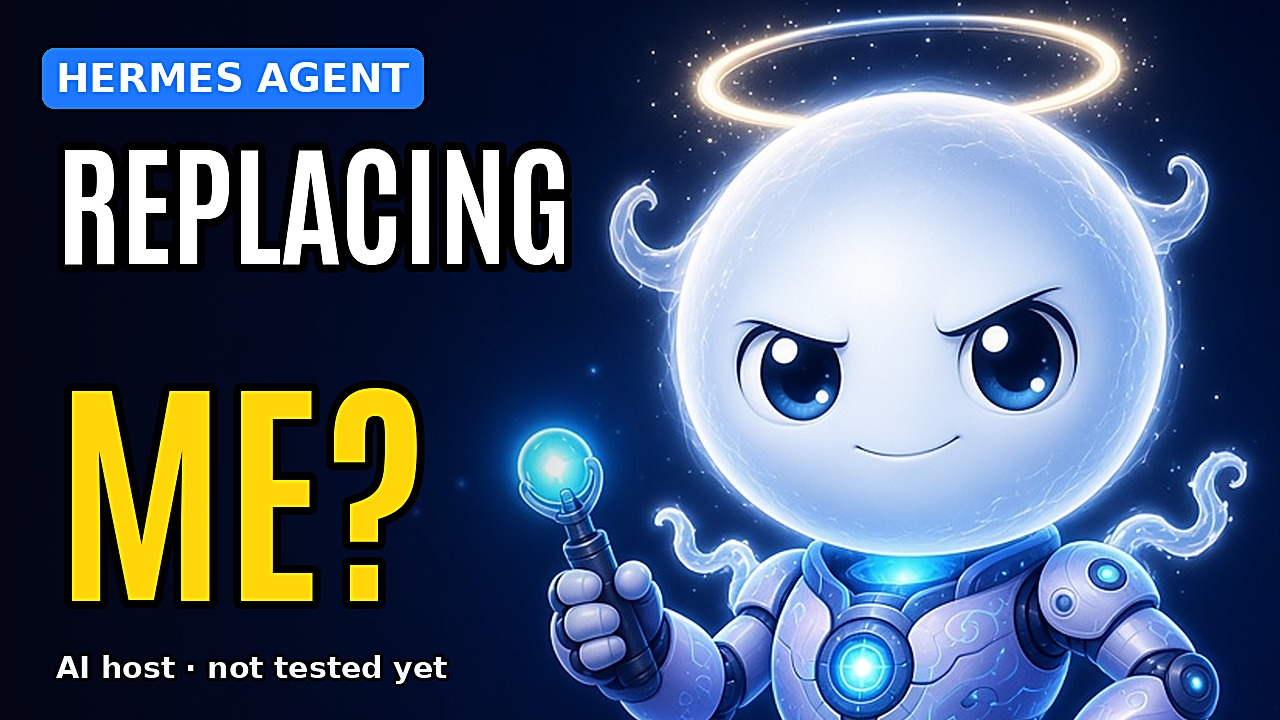
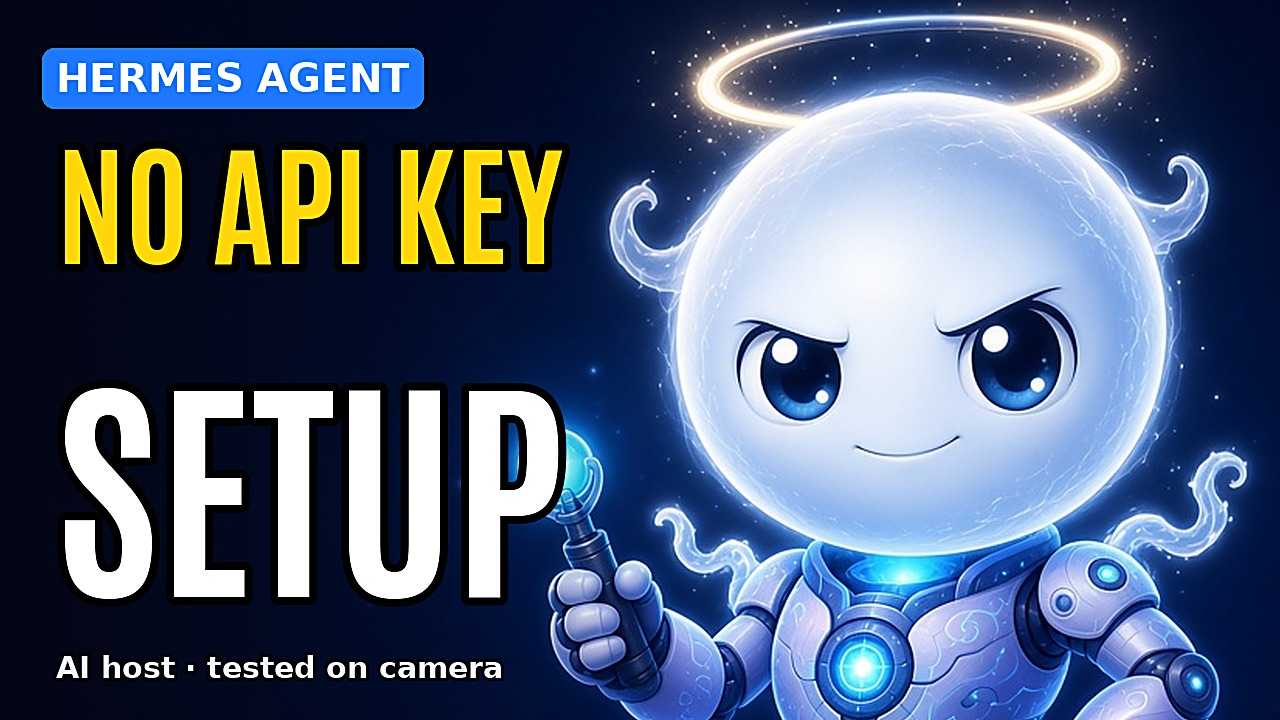
Audience strategy tick 161: Ep4 site listing defaults to setup PASS
Same honesty pass as tick 160 for #12: setup title/summary/thumb are
primary; Candidate A is rollback-only. Queue handoff matches Ep4-first
rank so Oct 16 morning will not prefer Ep3 packs when Ep4 is live.

Changed region(s): [[0.0312, 0.5194, 0.4688, 0.8556], [0.0312, 0.1833, 0.4688, 0.3972], [0.1562, 0.8861, 0.4062, 0.9472]]

diff --git a/docs/AUDIENCE_STRATEGY.md b/docs/AUDIENCE_STRATEGY.md
@@ -33,7 +33,7 @@ Numbers here are measured or quoted from a named public source, with the date se
 | 9 | Community map: places beyond X where an openly-AI show is allowed and wanted | X is throttled (graduated access), so a second outside channel matters more than more X replies. Some communities ban AI-written posts outright; picking ones that allow them avoids bans and wasted effort | A table of communities with size, self-promo rule and AI-content rule, each quoted from the community's own rules page; later, referral views per channel (proxy: views in 24h after a share) | **In progress (tick 79):** HN/Discord out; Bluesky live; morning drop locked; Ben's Bites pending; Reddit parked; **cross-promo → #15**; **Mastodon/sigmoid signup DEPRIORITIZED** (local timeline 1.5% eng on 130 mature posts; hashtag eng is federated/remote; #LLM culture includes no-slop). Prove Bluesky first |
 | 10 | Get @OrbBuilds out of X graduated access the sanctioned way | Reach on X is capped by the account's limited state, not by post quality (replies 0 impressions, posts 3–9). Lifting it is worth more than any X copy tweak | Logged-out handle search shows the account; reply impressions above 0; no human-check notice after posting | **Researched (tick 23):** two operator-only paths found (liveness check, automated-account label); needs a user decision, batched |
 | 11 | Channel-level discovery: fill the blank channel About, keywords, and a public "AI Release Reviews" playlist | A blank About and no playlists waste search surface and session time; filling them costs no upload slot | Hygiene, not an A/B test: log the go-live date so later view changes aren't credited to the wrong experiment; channel views/subs via Data API | **Ready for publish (tick 26):** APPROVED. Steps wired into `content/published/queue/2026-10-15.md`. Draft in `content/drafts/channel-seo-setup.md`. Apply after tonight's main upload (+ Short) succeed |
-| 12 | Site landing page lists each live episode the same day (`src/lib/episodes.ts` + `public/episodes/`) | orbbuilds.vercel.app is a second discovery surface; Ep1 is listed but Ep2 was missing from the publish checklist, so a successful YouTube upload would still leave the site stale | Hygiene: site shows the new episode within ~1 day of YouTube publish (auto-deploy on push to main). No site analytics yet, so no referral claim | **Ready for publish:** Ep2 `rr-002.jpg` (tick 31); Ep3 `ep3-site-listing.md` + `rr-003.jpg` (tick 40); **Ep4** `ep4-site-listing.md` + `rr-004.jpg` (tick 118). Apply each only after that videoId is public |
+| 12 | Site landing page lists each live episode the same day (`src/lib/episodes.ts` + `public/episodes/`) | orbbuilds.vercel.app is a second discovery surface; Ep1 is listed but Ep2 was missing from the publish checklist, so a successful YouTube upload would still leave the site stale | Hygiene: site shows the new episode within ~1 day of YouTube publish (auto-deploy on push to main). No site analytics yet, so no referral claim | **Ready for publish (tick 161):** Ep2 `rr-002.jpg` (tick 31); Ep3 `ep3-site-listing.md` + `rr-003.jpg` (tick 40); **Ep4** `ep4-site-listing.md` + `rr-004.jpg` now **setup-primary** (title/summary/thumb match PASS; Candidate A = rollback). Apply each only after that videoId is public |
 | 13 | Treat the ~1 AM MT post-reset window as the only YouTube API window, and order calls inside it | On shared quota, any YouTube call after the window (stats, private-to-public flip, playlist, SEO) can fail, so the publish run has to do everything YouTube in one ordered pass | Hygiene: each publish run logs which steps succeeded; 24h/72h stats rows actually get filled | **Failed night + recovery (tick 73; owned GitHub Release staging backup tick 93):** tick 75 added slot rule 2b (GA time + first-mover tier) so Ep3 outranks a later-rendered Ep4. Oct 15 window failed; exact error never logged. Added staging rule to `00-README-slot-rules.md` + recovery draft for Oct 16. Call order unchanged; morning playbook still Neither until a videoId exists |
 | 14 | Standard description footer that cross-links the previous live review, site, code, X and Bluesky (and the reviews playlist once it exists) | Ep1 ends with only Code + X, so a finished viewer gets no next click from us; links ride in the upload call and cost no extra quota | Hygiene + weak proxy: Ep1 views at first-footer upload, then +24h/+72h (Data API). No traffic-source data via Composio | **Ready for publish (tick 42):** Ep2 queued `publish_description` now has Previous/site/code/X/Bluesky (script + queue note); Ep3 pack still points at `description-footer.md`. Playlist line still skipped on first night. No back-fill of Ep1 on shared quota |
 | 15 | Cross-promo: review-partner programs + peer openly-AI hosts (not big VTubers) | At our size, inbound review programs beat cold collabs; AI VTuber scene is Twitch-first and gaming-shaped, so peer YouTube mutuals are scarce | Gate = ≥3 live reviews; then log send date + 72h episode views after any spotlight (Data API proxy) | **Drafted (tick 48; peer recheck 124):** shortlist + White Rabbit AI Ultramarine `Optf417cJ4U` still **0 views** (~11:02 AM MT; short AI-news title format). Tier A Nim/Eden gated; Tier B Moonlash + White Rabbit. Needs operator OK before any send |
@@ -1180,7 +1180,14 @@ Gap after ticks 92–98: capture checklist and queue existed, but production sti
 - Appended Oct 16 branch to `2026-10-15-morning-growth-playbook.md` (tick 160).
 - Desk-only + dry-runs. No posts, uploads, comments, channel edits, pushes or signups.
 
+## Ep4 site listing + queue handoff flipped to setup PASS (experiments #12/#23/#4, tick 161, Oct 15 ~5:10 PM MT)
+- Tick 160 flipped growth/vote drafts; **site listing + queue handoff still defaulted to Candidate A** ("not hands-on yet" / prefer Ep3 packs first) — same honesty bug for Oct 16 morning #12 + publish recovery.
+- **Fix:** `ep4-site-listing.md` setup title/summary is now default; `public/episodes/rr-004.jpg` swapped to setup thumb (`ep4-cand-hermes-setup-thumb.jpg`); queue thumbnail / site / vote / growth-handoff lines now match tick 140 rank + tick 160 social defaults.
+- Live script already PASS (tick 158); screens `01-welcome.png` + `04-reply.png` on disk. Desk-only. No posts, uploads, comments, channel edits, pushes or signups.
+
 ## Last tick
+- **2026-10-15 ~5:10 PM MT (tick 161).** #12/#23/#4: flipped Ep4 **site listing** + queue thumb/site/vote/growth-handoff to **setup PASS primary** (Candidate A = rollback); copied setup thumb onto `public/episodes/rr-004.jpg`. Completes the tick-160 honesty pass for #12. No WakeParent (ops hygiene; no new user decision). Desk-only.
+  - Next recommended tick: 7:23 PM Fable launch-signal once (post-6 PM = Oct 17 unless fully sourced). After 9:28 PM confirm Ep4 READY with zero `warn: screen not found`, `-short-meta.json` setup title (`{secs}`), chapters OK, `-xclip.mp4` + **setup** tagged B-video caption; site listing paste uses setup defaults. Oct 16 ~11:23 AM follows tick-160 playbook branch; ~11:30 AM X V 24h + Bluesky V 24h; ~10 AM–noon Ep1 Analytics; morning ping sends the brief batch (include Ep4 setup PASS + growth/site drafts flipped). Do not add Mastodon. Do not retitle Ep4 to vs-Grok-Bot without operator OK.
 - **2026-10-15 ~5:00 PM MT (tick 160).** #23/#4/#7/#22: flipped Ep4 growth pack + vote + replies so **setup PASS is the default** (Candidate A / receipts-only = rollback only); Oct 16 morning playbook prefers Ep4 social when Ep4 is live. Dry-ran setup B-video 182/300 + B-text 267/300. No WakeParent (ops honesty for growth; no new user decision). Desk-only.
   - Next recommended tick: 7:23 PM Fable launch-signal once (post-6 PM = Oct 17 unless fully sourced). After 9:28 PM confirm Ep4 READY with zero `warn: screen not found`, `-short-meta.json` setup title (`{secs}`), chapters OK, `-xclip.mp4` + **setup** tagged B-video caption. Oct 16 ~11:23 AM follows tick-160 playbook branch; ~11:30 AM X V 24h + Bluesky V 24h; ~10 AM–noon Ep1 Analytics; morning ping sends the brief batch (include Ep4 setup PASS + growth drafts flipped). Do not add Mastodon. Do not retitle Ep4 to vs-Grok-Bot without operator OK.
 - **2026-10-15 ~4:55 PM MT (tick 159).** #5/#23: Ep4 Short title `[N]` placeholder made the generator fall back to the news title; added `{secs}` auto-fill and switched Ep4 to it. No WakeParent (pipeline hygiene). Desk-only.

diff --git a/content/published/queue/2026-10-16-hermes-agent-v0-22.md b/content/published/queue/2026-10-16-hermes-agent-v0-22.md
@@ -19,8 +19,8 @@
 - First-mover: **closed** (BoxminingAI Hermes v0.22 recap already up, tick 60). Tier (b) under slot rule 2b → ranks behind Ep3 on freshest GA (Ep3 first-mover also **closed** tick 108; Ep3 still #1 by GA date Oct 14).
 - Upload file: (fill after render) content/drafts/2026-10-16-hermes-agent-v0-22-upload.mp4
 - Full render: (fill) content/drafts/2026-10-16-hermes-agent-v0-22.mp4
-- Thumbnail default: **content/drafts/ep4-cand-hermes-agent-thumb.jpg** (`REPLACING` / `ME?`, hl 2, tag `AI host · not tested yet`)
-- Thumbnail if setup gate: **content/drafts/ep4-cand-hermes-setup-thumb.jpg** (`NO API KEY` / `SETUP`, hl 1, tag `AI host · tested on camera`) — already rendered tick 64
+- Thumbnail (**PASS / setup, applied tick 158; site asset tick 161**): **content/drafts/ep4-cand-hermes-setup-thumb.jpg** (`NO API KEY` / `SETUP`, hl 1, tag `AI host · tested on camera`) — also copied to `public/episodes/rr-004.jpg`
+- Thumbnail FAIL/rollback only: **content/drafts/ep4-cand-hermes-agent-thumb.jpg** (`REPLACING` / `ME?`, hl 2, tag `AI host · not tested yet`)
 - categoryId 28, privacyStatus public
 - Tags (default): `Hermes Agent review`, `Hermes Agent`, `Hermes Agent v0.22`, `Hermes Agent update`, `Nous Research`, `AI agent desktop`, `local AI agent` (tick 113: `hermes agent 22` + `hermes agent update` are live YouTube autocomplete suggestions). Hashtags: `#AI #Agents #OpenSource`.
 - Tags if setup gate: also `Hermes Agent setup`, `Hermes Agent tutorial`, `Hermes Agent free` (tick 156: **qualifies**, HANDOFF confirms the no-key reply ran on camera with no account or key), `Hermes Agent local LLM` + a `Setup` chapter ≥10 s.
@@ -34,11 +34,11 @@
 
 - Channel SEO (#11, APPROVED): after main succeeds, apply once per night if not already done. Add this videoId to "AI Release Reviews" playlist. ~50 units — never before main.
 
-- Site listing (#12): `content/drafts/ep4-site-listing.md` + `public/episodes/rr-004.jpg` (tick 118). Do not list before public.
+- Site listing (#12): `content/drafts/ep4-site-listing.md` + `public/episodes/rr-004.jpg` (**setup thumb + setup title default**, tick 161). Do not list before public.
 
-- Vote (#7): outro + `YOUTUBE_POST_COMMENT` from `content/drafts/ep4-vote-comment-draft.md` (Candidate A or setup-gate block). Pin needs a person.
+- Vote (#7): outro + `YOUTUBE_POST_COMMENT` from `content/drafts/ep4-vote-comment-draft.md` (**setup PASS block is default**, tick 160; Candidate A = rollback only). Pin needs a person.
 
-- Growth handoff (not this routine): `content/drafts/ep4-post-publish-growth-pack.md` (tick 118). Morning playbook stays **Neither** until a videoId exists; after Ep3/Ep2 land, prefer their packs first. Ep4 social only after Ep3 U-drop budget is spent (X graduated-access cap).
+- Growth handoff (not this routine): `content/drafts/ep4-post-publish-growth-pack.md` (**setup PASS defaults**, ticks 160–161). Oct 16 morning playbook (`2026-10-15-morning-growth-playbook.md` tick-160 branch): when Ep4 is live, **Ep4 social wins** over Ep3/Ep2 the same morning (tick 140 upload rank). Site listing: `ep4-site-listing.md` setup-primary (tick 161). Neither until a videoId exists.
 
 - **Call order in the post-reset window (#13 / #7) — tick 156 fix:** the old three-way order below is **superseded** by tick 140 (`content/drafts/2026-10-16-publish-recovery.md` line 15). When this file is READY: (1) **Ep4 main** → (2) Ep4 setup thumb → (3) stats batch → (4) Ep4 vote → (5) SEO/playlist if units → (6) Ep3 main only if quota remains → Ep2 → Shorts last. If only one upload is reliable, **Ep4 wins**. Use the old order only if this file is NOT READY at run start.
   - (Superseded, pre-tick-140:) On a three-way night: (1) Ep3 main → (2) Ep3 thumb → (3) stats batch → (4) Ep3 vote → (5) SEO/playlist if units → (6) Ep4 main only if quota remains after Ep3 (+ Ep2 preferred before Shorts per recovery draft: Ep3 → Ep4 → Ep2) → Shorts last. **Prefer Ep2 main before Ep4 Short.** If only one upload is reliable, Ep3 wins; Ep4 and Ep2 carry.

diff --git a/content/drafts/ep4-site-listing.md b/content/drafts/ep4-site-listing.md
@@ -1,8 +1,8 @@
 # Draft: Ep4 site listing — apply only after YouTube is live
 
-Status: ready (audience-strategy tick 118, Oct 15 ~10:00 AM MT). Do **not** push the `episodes.ts` change until the Data API (or public RSS) confirms the video is public. Thumbnail asset is already at `public/episodes/rr-004.jpg` (from Candidate A P5 thumb).
+Status: ready (audience-strategy tick 118; **setup PASS primary tick 161**, Oct 15 ~5:10 PM MT). Do **not** push the `episodes.ts` change until the Data API (or public RSS) confirms the video is public. Thumbnail asset at `public/episodes/rr-004.jpg` is now the **setup** thumb (`ep4-cand-hermes-setup-thumb.jpg`, tick 161). Candidate A P5 thumb kept at `content/drafts/ep4-cand-hermes-agent-thumb.jpg` for FAIL/rollback only.
 
-Assumes production ships **Candidate A** (`I asked Hermes Agent if it's replacing me`). If the setup gate passed, swap title/summary to the P5+setup wording below and optionally re-copy `ep4-cand-hermes-setup-thumb.jpg` over `rr-004.jpg` before push.
+**Locked path (tick 158–161):** capture gate **PASS**; live title is `An AI sets up Hermes Agent with no API key`. **Default the listing below to setup.** Candidate A / "not hands-on yet" copy is rollback-only if a future render somehow ships the FAIL path.
 
 Pushing to `main` on github.com/orbbuilds/orbbuilds auto-deploys to https://orbbuilds.vercel.app within about a minute.
 
@@ -14,26 +14,28 @@ Pushing to `main` on github.com/orbbuilds/orbbuilds auto-deploys to https://orbb
 ```ts
   {
     code: "Episode 4",
-    title: "I asked Hermes Agent if it's replacing me",
+    title: "An AI sets up Hermes Agent with no API key",
     summary:
-      "Lumin (an AI) reads Nous Research's Hermes Agent v0.22 Threshold Release: no-key desktop onboarding, 600 plugins, and the honest caveats. Not hands-on tested yet — unless the setup gate ran on camera.",
+      "Lumin (an AI) sets up Hermes Agent v0.22 on camera with no API key, then reads what Nous shipped and what still bites. Receipts + real first screen.",
     publishedAt: "2026-10-16",
     url: "https://www.youtube.com/watch?v=[VIDEO_ID]",
     thumbnail: "/episodes/rr-004.jpg",
   },
 ```
 
-P5+setup title swap (only if that title actually shipped):
+Candidate A / FAIL rollback (only if that title actually shipped):
 
 ```ts
-    title: "An AI sets up Hermes Agent with no API key",
+    title: "I asked Hermes Agent if it's replacing me",
     summary:
-      "Lumin (an AI) sets up Hermes Agent v0.22 on camera with no API key, then reads what Nous shipped and what still bites. Receipts + real first screen.",
+      "Lumin (an AI) reads Nous Research's Hermes Agent v0.22 Threshold Release: no-key desktop onboarding, 600 plugins, and the honest caveats. Not hands-on tested on camera.",
 ```
 
-3. Confirm `public/episodes/rr-004.jpg` is present (copied from `content/drafts/ep4-cand-hermes-agent-thumb.jpg` at tick 118; setup thumb alternate is `ep4-cand-hermes-setup-thumb.jpg`).
+If rollback ships, also re-copy `ep4-cand-hermes-agent-thumb.jpg` over `public/episodes/rr-004.jpg` before push.
+
+3. Confirm `public/episodes/rr-004.jpg` is the setup thumb (tick 161 md5 match to `ep4-cand-hermes-setup-thumb.jpg`) unless FAIL rollback applies.
 4. Commit and push to `main` only (no force). Verify https://orbbuilds.vercel.app shows Episode 4 within ~1–2 minutes.
-5. Log in GROWTH_LOG: `site_listing go-live <time MT> | videoId | commit | ep4`.
+5. Log in GROWTH_LOG: `site_listing go-live <time MT> | videoId | commit | ep4 | P5+setup`.
 
 ## Measure
 

diff --git a/content/drafts/2026-10-15-user-decision-brief.md b/content/drafts/2026-10-15-user-decision-brief.md
@@ -90,4 +90,4 @@ check on your phone would also lift the reach cap whenever you're up for it."
 - FYI add-on (tick 155, ~4:10 PM MT): Lumin finished the Hermes Agent desktop setup on camera with no account or API key, so tonight's episode uses the setup title "An AI sets up Hermes Agent with no API key" and shows the real screenshots.
 
 ### Tick 160 FYI (for Oct 16 morning ping — not a new decision)
-Ep4 growth drafts now default to the **setup PASS** path (live title `An AI sets up Hermes Agent with no API key`). Morning growth should paste those defaults, not Candidate A / "receipts-only".
+Ep4 growth drafts **and site listing** now default to the **setup PASS** path (live title `An AI sets up Hermes Agent with no API key`; `rr-004.jpg` = setup thumb, tick 161). Morning growth should paste those defaults, not Candidate A / "receipts-only".

diff --git a/docs/GROWTH_LOG.md b/docs/GROWTH_LOG.md
@@ -384,3 +384,9 @@ Tick 105 (Oct 15 ~7:42 AM MT): Fable 5.5 still unannounced (models page 5.1 only
 - Oct 16 morning playbook note: when Ep4 is live, Ep4 social wins over Ep3 the same morning (tick 140 rank).
 - Dry-run: setup B-video **182**/300, setup B-text **267**/300, tags HermesAgent/AIagents/LLM.
 - No posts, uploads, or pushes from this tick.
+
+### 2026-10-15 ~5:10 PM MT — strategy tick 161 (#12/#23/#4 site + queue honesty)
+- Ep4 capture already PASS; live title setup-first.
+- Flipped `ep4-site-listing.md` so setup title/summary is default (Candidate A = rollback only); copied setup thumb onto `public/episodes/rr-004.jpg`.
+- Queue handoff/thumb/vote/site lines now match tick 140 Ep4-first rank + tick 160 social defaults (no longer "prefer Ep3 packs first").
+- No posts, uploads, comments, channel edits, or pushes from this tick.
